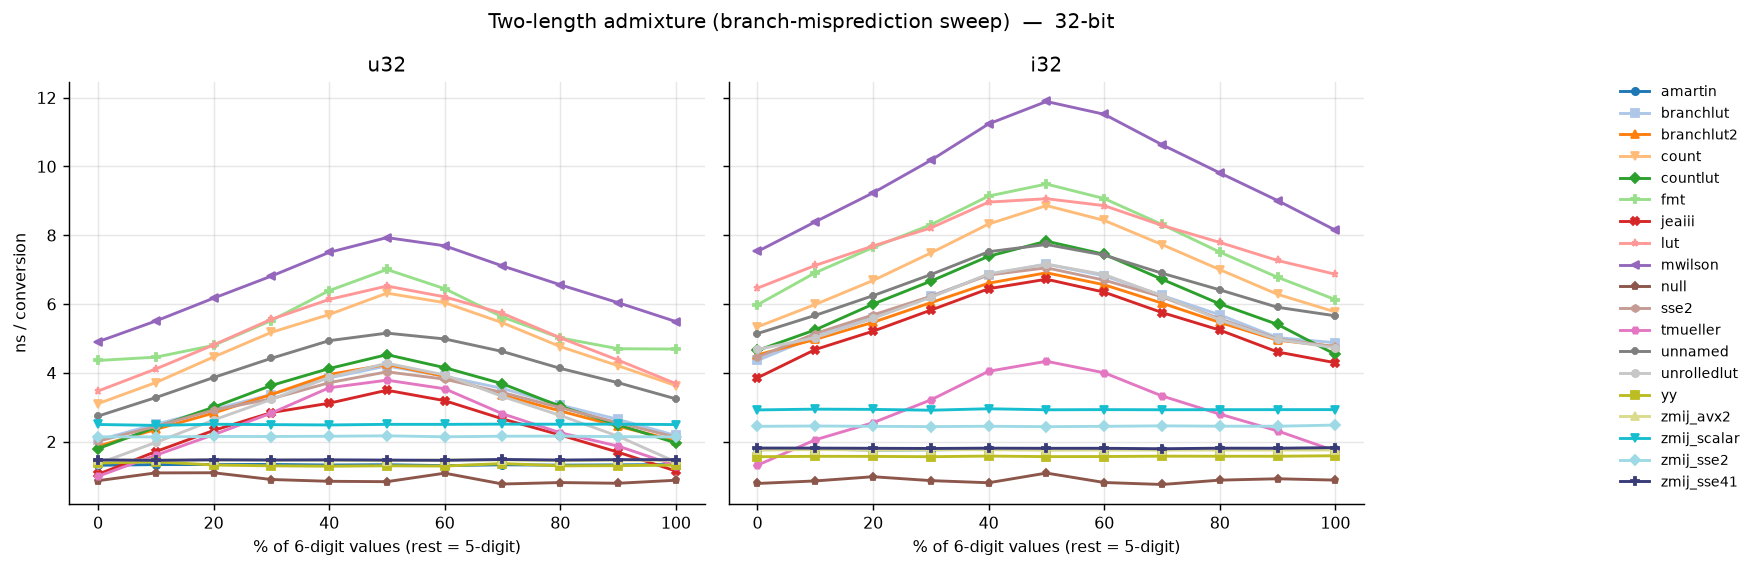
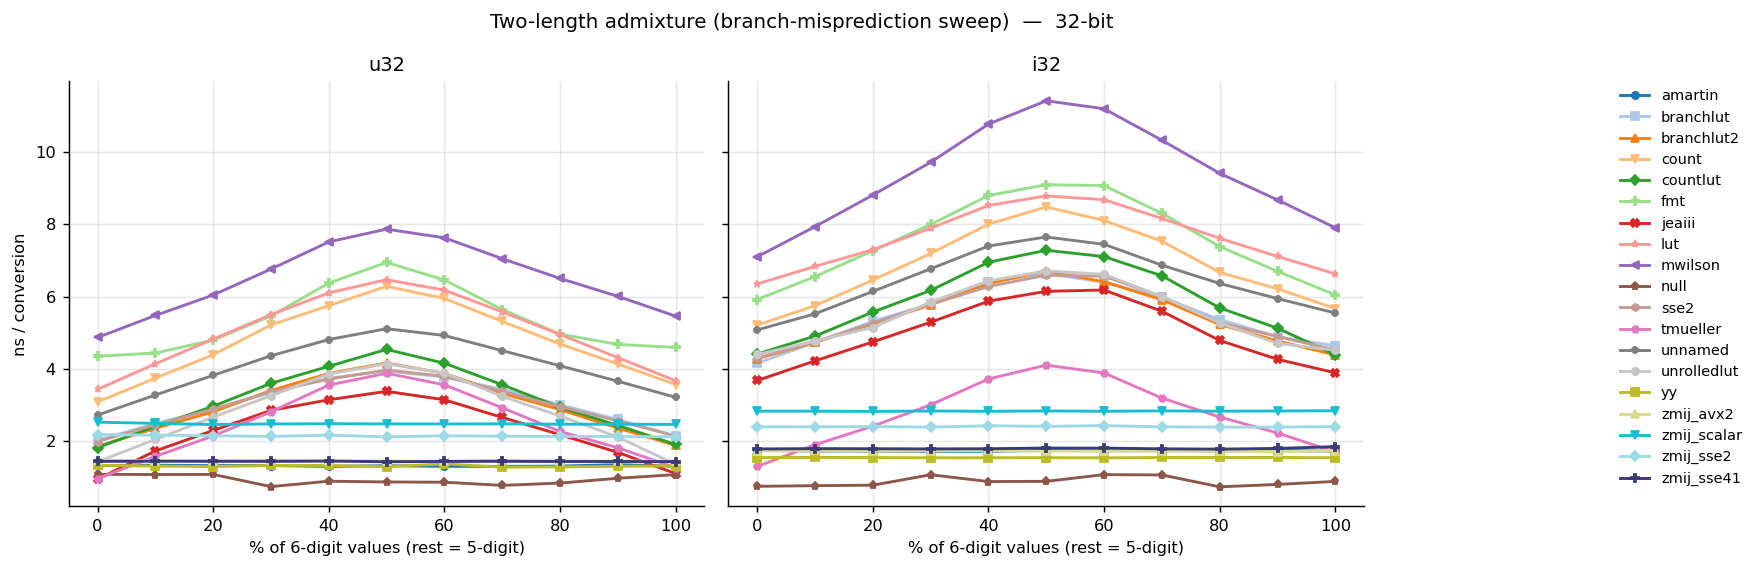
Speed up the SSE2 integer itoa path and restructure the u128 path
SSE2 drop_leading_zeroes now left-aligns the digit field with a GPR
128-bit shift (which gcc/clang lower to shrd+shr+cmov) and two 8-byte
stores, instead of the vector srl/sll/or chain -- ~6% on u64/i64 and
~8-9% on short u128 (gcc).

itoa_signed routes 128-bit values that fit in int64 through the 64-bit
signed path, skipping the 128-bit abs. Split itoa_u128 into the
small-value shortcut and itoa_u128_wide (the 20-39 digit peel); inline
the latter everywhere except plain SSE2, where its shrd body would
otherwise bloat the shortcut and regress clang. Annotate the signed
dispatch with [[likely]]/[[unlikely]] and add a ZMIJ_NOINLINE macro.

Correct on gcc-16 and clang-21 across all zmij tiers (scalar/sse2/
sse41/avx2) and all integer types incl. INT_MIN and the 2^63-2^64 band.

diff --git a/src/zmij.cc b/src/zmij.cc
@@ -143,6 +143,14 @@ static_assert(!ZMIJ_USE_SSE4_1 || ZMIJ_USE_SSE);
 #  define ZMIJ_INLINE inline
 #endif
 
+#if ZMIJ_HAS_ATTRIBUTE(noinline)
+#  define ZMIJ_NOINLINE __attribute__((noinline))
+#elif ZMIJ_MSC_VER
+#  define ZMIJ_NOINLINE __declspec(noinline)
+#else
+#  define ZMIJ_NOINLINE
+#endif
+
 #if defined(__GNUC__) && !ZMIJ_NEON2SSE_SHIM
 #  define ZMIJ_ASM(x) asm x
 #else
@@ -1492,7 +1500,7 @@ ZMIJ_INLINE void itoa_body16_pad(char* out, uint64_t value,
 
 // Writes 32 ASCII digits: `mid` at out[0,16) then `low` at out[16,32), both
 // zero-padded. Mirrors the SSE4.1 (non-AVX2) two-chunk itoa_body32_pad.
-ZMIJ_INLINE void itoa_body32_pad(char* out, uint64_t mid, uint64_t low,
+__attribute__((noinline)) static void itoa_body32_pad(char* out, uint64_t mid, uint64_t low,
                                  const data& d) noexcept {
   itoa_body16_pad(out, mid, d);
   itoa_body16_pad(out + 16, low, d);
@@ -1601,7 +1609,7 @@ ZMIJ_INLINE auto to_bcd16x2_256(uint64_t a, uint64_t b,
 // noinline on the AVX2: compilers perform additional stack adjustment which
 // pessimizes the speed of the other cases otherwise.
 #  if defined(__AVX2__)
-__attribute__((noinline)) static void itoa_body32_pad(char* out, uint64_t mid,
+ZMIJ_NOINLINE static void itoa_body32_pad(char* out, uint64_t mid,
     uint64_t low, const data& d) noexcept {
   __m256i bcd = to_bcd16x2_256(mid, low, d);  // lane0 = mid, lane1 = low
   __m256i shuffle =
@@ -1648,26 +1656,33 @@ ZMIJ_INLINE void itoa_body32_pad(char* dst, uint64_t mid, uint64_t low,
   itoa_body16_pad(dst + 16, low, d);
 }
 
-// Left-aligns a 16-wide field (leading-zero padded) by dropping lz
-// leading zeroes.
-ZMIJ_INLINE auto drop_leading_zeroes(__m128i x, int lz) noexcept -> __m128i {
-  // Coarse stage: when lz >= 8, discard the low 8 bytes first.
-  __m128i x8 = _mm_srli_si128(x, 8);
-  __m128i sel = _mm_set1_epi32(-((lz >> 3) & 1));  // all-ones iff lz >= 8
-  x = _mm_or_si128(_mm_and_si128(sel, x8), _mm_andnot_si128(sel, x));
-  // Fine stage: right shift the 128-bit value by r = (lz & 7) * 8 bits (< 64).
-  int r = (lz & 7) << 3;
-  __m128i lo = _mm_srl_epi64(x, _mm_cvtsi32_si128(r));
-  __m128i carry = _mm_sll_epi64(_mm_srli_si128(x, 8), _mm_cvtsi32_si128(64 - r));
-  return _mm_or_si128(lo, carry);
+// A left-aligned 16-digit field as its two little-endian 64-bit halves, ready
+// for two 8-byte stores.
+struct ascii16 { uint64_t lo, hi; };
+
+// Left-aligns a 16-wide field (leading-zero padded) by dropping lz leading
+// zeroes. The significant tail occupies the low 16 - lz bytes, so the
+// left-align is a right shift of the whole 128-bit value by lz bytes.
+ZMIJ_INLINE auto drop_leading_zeroes(__m128i x, int lz) noexcept -> ascii16 {
+  // Extract the two halves (x is already ASCII-biased by to_ascii16) and
+  // left-align by right-shifting the full 128-bit value by lz bytes in GPRs.
+  // Both gcc and clang lower the __int128 shift to a branchless shrd + shr +
+  // cmov -- cheaper than the SSE2 srl/sll/or chain and, unlike a hand-rolled
+  // two-shift funnel, needs no mask-blend for the coarse >= 64 step. lz is in
+  // [0, 15] so the shift stays < 128 bits.
+  uint64_t lo = uint64_t(_mm_cvtsi128_si64(x));
+  uint64_t hi = uint64_t(_mm_cvtsi128_si64(_mm_unpackhi_epi64(x, x)));
+  unsigned __int128 full = (static_cast<unsigned __int128>(hi) << 64) | lo;
+  full >>= unsigned(lz) * 8;  // lz bytes -> bits
+  return {uint64_t(full), uint64_t(full >> 64)};
 }
 
 ZMIJ_INLINE char* itoa_body(char* out, uint64_t value, int len,
                             const data& d) noexcept {
   int leading_zeroes = 16 - len;
-  __m128i ascii = to_ascii16(value, d);
-  _mm_storeu_si128(reinterpret_cast<__m128i*>(out),
-                   drop_leading_zeroes(ascii, leading_zeroes));
+  ascii16 r = drop_leading_zeroes(to_ascii16(value, d), leading_zeroes);
+  memcpy(out, &r.lo, 8);
+  memcpy(out + 8, &r.hi, 8);
   return out + len;
 }
 
@@ -1675,13 +1690,13 @@ ZMIJ_INLINE char* itoa_body(char* out, uint64_t value, int len,
 
 #if ZMIJ_USE_INT128
 ZMIJ_INLINE auto itoa_u128(uint128_t value, char* out) noexcept -> char*;
-#else
+#else  // ZMIJ_USE_INT128
 // Ensure we get a linker error if for some reason itoa_u128 ends up being
 // called.  No uint128_t type is guaranteed to exist in this case, so this
 // is a template which doesn't have to rely on implicit promotion of the
 // arguments.
 template <typename T> auto itoa_u128(T value, char* out) noexcept -> char*;
-#endif
+#endif  // ZMIJ_USE_INT128
 
 // Writes the decimal representation of unsigned value to out. Minimum buffer
 // sizes: u32 -> 16, u64 -> 20, u128 -> 48 bytes (+1 for the sign in the signed
@@ -1697,7 +1712,7 @@ ZMIJ_INLINE auto itoa(UInt value, char* out) noexcept -> char* {
     if (sizeof(UInt) <= 4) {
 #if ZMIJ_USE_SSE4_1 || ZMIJ_USE_NEON
       return itoa_body10(out, v, count_digits(uint32_t(v)), *d);
-#else
+#else  // ZMIJ_USE_SSE4_1 || ZMIJ_USE_NEON
       uint32_t high = uint32_t(v / 100);  // <= 8 digits
       uint64_t hi = to_bcd8(high).bcd + zeros;
       uint32_t low2 = uint32_t(v) - high * 100;
@@ -1710,7 +1725,7 @@ ZMIJ_INLINE auto itoa(UInt value, char* out) noexcept -> char* {
       out[len_hi] = d2[0];
       out[len - 1] = d2[1]; // if len == 1 overwrites d2[0]
       return out + len;
-#endif
+#endif  // ZMIJ_USE_SSE4_1 || ZMIJ_USE_NEON
     } else {
 #if ZMIJ_USE_SSE || ZMIJ_USE_NEON
       // We peel off the last four digits and always write them at the end,
@@ -1725,7 +1740,7 @@ ZMIJ_INLINE auto itoa(UInt value, char* out) noexcept -> char* {
       memcpy(p, digits2(low4 / 100), 2);
       memcpy(p + 2, digits2(low4 % 100), 2);
       return p + 4 * big;   // The trailing digits only count if they aren't redundant.
-#else
+#else  // ZMIJ_USE_SSE || ZMIJ_USE_NEON
       // u64: at most 20 digits -> three groups (top, mid 8, low 8). The top
       // group is v / 1e16 in [0, 1844], at most 4 digits, so divmod100 + two
       // digits2 lookups beat a full to_bcd8. Right-aligned, those 4 bytes land
@@ -1745,54 +1760,27 @@ ZMIJ_INLINE auto itoa(UInt value, char* out) noexcept -> char* {
       int len = count_digits(v);
       memcpy(out, buf + 24 - len, 20);
       return out + len;
-#endif
+#endif  // ZMIJ_USE_SSE || ZMIJ_USE_NEON
     }
   }
 }
 
-// std::make_unsigned is ill-formed for __int128 in strict-conformance mode
-// (it's not a standard integer type), so map it here. The specialization sits
-// behind ZMIJ_USE_INT128, which is 0 on toolchains without __int128 (e.g. MSVC),
-// so the primary template handles 32/64-bit there.
-template <typename Int>
-struct itoa_make_unsigned {
-  using type = typename std::make_unsigned<Int>::type;
-};
 #if ZMIJ_USE_INT128
-template <>
-struct itoa_make_unsigned<__int128> {
-  using type = unsigned __int128;
-};
+// gcc and clang need some handholding.  The combination of ZMIJ_NOINLINE here
+// ZMIJ_UNLIKELY in itoa_signed and ZMIJ_NOINLINE on itoa_body32_pad turned out
+// to be the best compromise with neither compiler regressing >10% on some
+// benchmarks.
+#if ZMIJ_USE_SSE && !ZMIJ_USE_SSE4_1
+ZMIJ_NOINLINE
+#else
+ZMIJ_INLINE
 #endif
-
-// Writes the decimal representation of signed `value`, prefixing '-' when
-// negative. Branchless so a random sign pattern can't mispredict: the sign mask
-// is 0 (non-negative) or all-ones (negative); mag is the overflow-safe absolute
-// value and the '-' is written unconditionally, advancing only when negative.
-template <typename Int>
-ZMIJ_INLINE auto itoa_signed(Int value, char* out) noexcept -> char* {
-  using UInt = typename itoa_make_unsigned<Int>::type;
-  UInt s = UInt(value >> (sizeof(Int) * 8 - 1));
-  UInt mag = (UInt(value) ^ s) - s;
-  *out = '-';
-  out += s & 1;
-  return itoa(mag, out);
-}
-
-#if ZMIJ_USE_INT128
-// A u128 holds 20-39 digits. Values <= u64 delegate to the u64 path (realistic
-// data is overwhelmingly small, so this branch is well predicted). Otherwise
-// peel 16 decimal digits at a time with a 128-bit reciprocal: one peel leaves a
-// 20-32 digit value (top <=16 + low 16); two peels leave 33-39 (top <=7 +
-// mid 16 + low 16). The two interior chunks are fixed-width; only the top trims
-// leading zeros via itoa_body. See PLAN_u128.md / [[project_itoa_chainbreak]].
-ZMIJ_INLINE auto itoa_u128(uint128_t value, char* out) noexcept -> char* {
-  if (value <= UINT64_MAX) return itoa(uint64_t(value), out);
+auto itoa_u128_wide(uint128_t value, char* out) noexcept -> char* {
 #if ZMIJ_USE_SSE || ZMIJ_USE_NEON  // SSE4.1/SSE2/NEON share the chunked body.
   const auto* d = &static_data;
   ZMIJ_ASM(("" : "+r"(d)));  // Load constants from memory.
   divrem_1e16_result lo = divrem_1e16(value);  // lo.rem = digits [0, 16)
-  if (lo.quot < uint64_t(1e16)) {   // 20-32 digits: top (<=16) + low
+  if (lo.quot < uint64_t(1e16)) {   // 19-32 digits: top (<=16) + low
     // Two separate 128-bit BCD passes, NOT a shared 256-bit one. The shared form
     // (one to_bcd16x2_256, per-lane trim, two stores) measured slower (clang
     // ~6%, g++ ~8%) even with the OR-with-'0' hoisted off the length chain: it's
@@ -1810,7 +1798,7 @@ ZMIJ_INLINE auto itoa_u128(uint128_t value, char* out) noexcept -> char* {
   char* p = itoa_body(out, top, count_digits(uint32_t(top)), *d);
   itoa_body32_pad(p, hi.rem, lo.rem, *d);
   return p + 32;
-#else
+#else // ZMIJ_USE_SSE || ZMIJ_USE_NEON
   // Scalar mirror of the SSE path: peel 16 digits per step with the GM
   // reciprocal (avoids the __udivti3 libcall a u128 %/÷ constant would emit) and
   // build each 16-digit chunk as two fixed-width 8-digit to_bcd8 words (MSB
@@ -1821,7 +1809,7 @@ ZMIJ_INLINE auto itoa_u128(uint128_t value, char* out) noexcept -> char* {
   divrem_1e16_result lo = divrem_1e16(value);  // lo.rem = low 16 digits
   uint64_t low_hi = to_bcd8(uint32_t(lo.rem / 100'000'000ull)).bcd + zeros;
   uint64_t low_lo = to_bcd8(uint32_t(lo.rem % 100'000'000ull)).bcd + zeros;
-  if (lo.quot < 10'000'000'000'000'000ull) {  // 20-32 digits: top (<=16) + low 16
+  if (lo.quot < 10'000'000'000'000'000ull) {  // 19-32 digits: top (<=16) + low 16
     uint64_t top = uint64_t(lo.quot);
     char buf[48] = {};
     uint64_t top_hi = to_bcd8(uint32_t(top / 100'000'000ull)).bcd + zeros;
@@ -1851,7 +1839,60 @@ ZMIJ_INLINE auto itoa_u128(uint128_t value, char* out) noexcept -> char* {
   int len = 32 + count_digits(top);
   memcpy(out, buf + 48 - len, 40);
   return out + len;
-#endif  // ZMIJ_USE_SSE
+#endif // ZMIJ_USE_SSE || ZMIJ_USE_NEON
+}
+#endif // ZMIJ_USE_INT128
+
+// std::make_unsigned is ill-formed for __int128 in strict-conformance mode
+// (it's not a standard integer type), so map it here. The specialization sits
+// behind ZMIJ_USE_INT128, which is 0 on toolchains without __int128 (e.g. MSVC),
+// so the primary template handles 32/64-bit there.
+template <typename Int>
+struct itoa_make_unsigned {
+  using type = typename std::make_unsigned<Int>::type;
+};
+#if ZMIJ_USE_INT128
+template <>
+struct itoa_make_unsigned<__int128> {
+  using type = unsigned __int128;
+};
+#endif // ZMIJ_USE_INT128
+
+// Write the decimal representation of signed value.
+template <typename Int>
+ZMIJ_INLINE auto itoa_signed(Int value, char* out) noexcept -> char* {
+#if ZMIJ_USE_INT128
+  // If possible, use the 64bit path.  The 128x128 multiplications required for
+  // the full width are more expensive than branching.
+  if (sizeof(Int) > 8) {
+    if (value == Int(int64_t(value))) [[ZMIJ_LIKELY]] {
+      return itoa_signed(int64_t(value), out);
+    } else [[ZMIJ_UNLIKELY]] {
+      using UInt = typename itoa_make_unsigned<Int>::type;
+      UInt mag = value >= 0 ? UInt(value) : -UInt(value);
+      *out = '-';
+      out += value < 0;
+      return itoa_u128_wide(mag, out);
+    }
+  }
+#endif
+  using UInt = typename itoa_make_unsigned<Int>::type;
+  UInt mag = value >= 0 ? UInt(value) : -UInt(value);
+  *out = '-';
+  out += value < 0;
+  return itoa(mag, out);
+}
+
+#if ZMIJ_USE_INT128
+// A u128 holds 20-39 digits. Values <= u64 delegate to the u64 path (realistic
+// data is overwhelmingly small, so this branch is well predicted). Otherwise
+// peel 16 decimal digits at a time with a 128-bit reciprocal: one peel leaves a
+// 19-32 digit value (top <=16 + low 16); two peels leave 33-39 (top <=7 +
+// mid 16 + low 16). The two interior chunks are fixed-width; only the top trims
+// leading zeros via itoa_body. See PLAN_u128.md / [[project_itoa_chainbreak]].
+ZMIJ_INLINE auto itoa_u128(uint128_t value, char* out) noexcept -> char* {
+  if (value <= UINT64_MAX) return itoa(uint64_t(value), out);
+  return itoa_u128_wide(value, out);
 }
 #endif  // ZMIJ_USE_INT128
 
